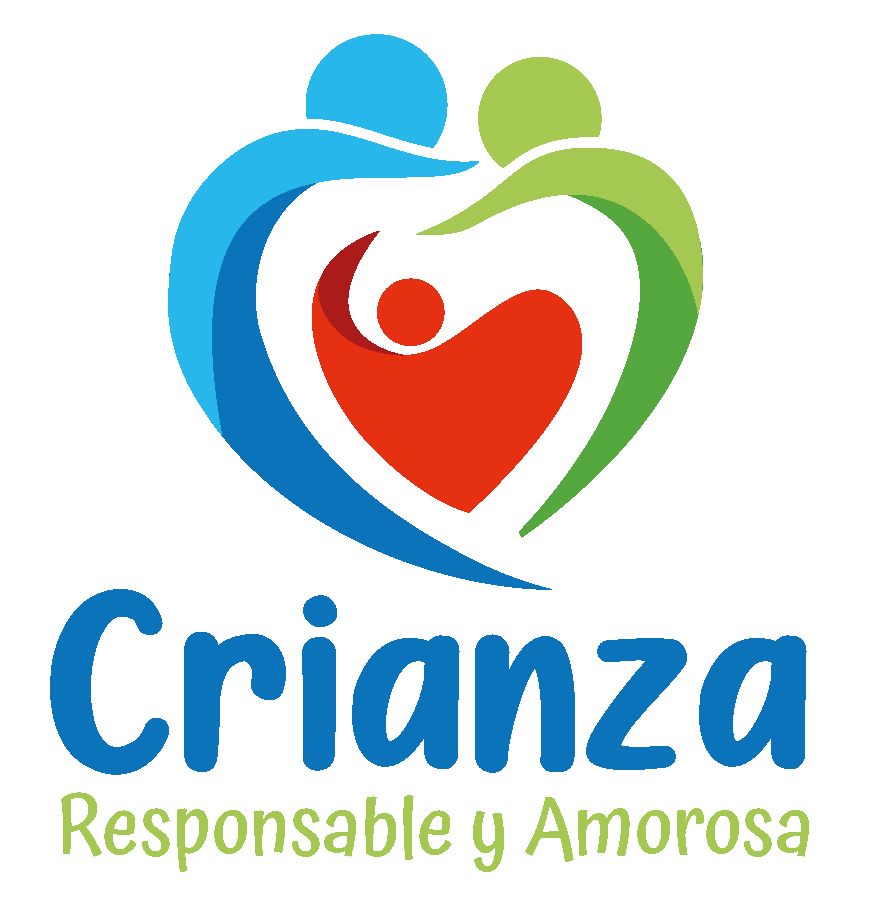
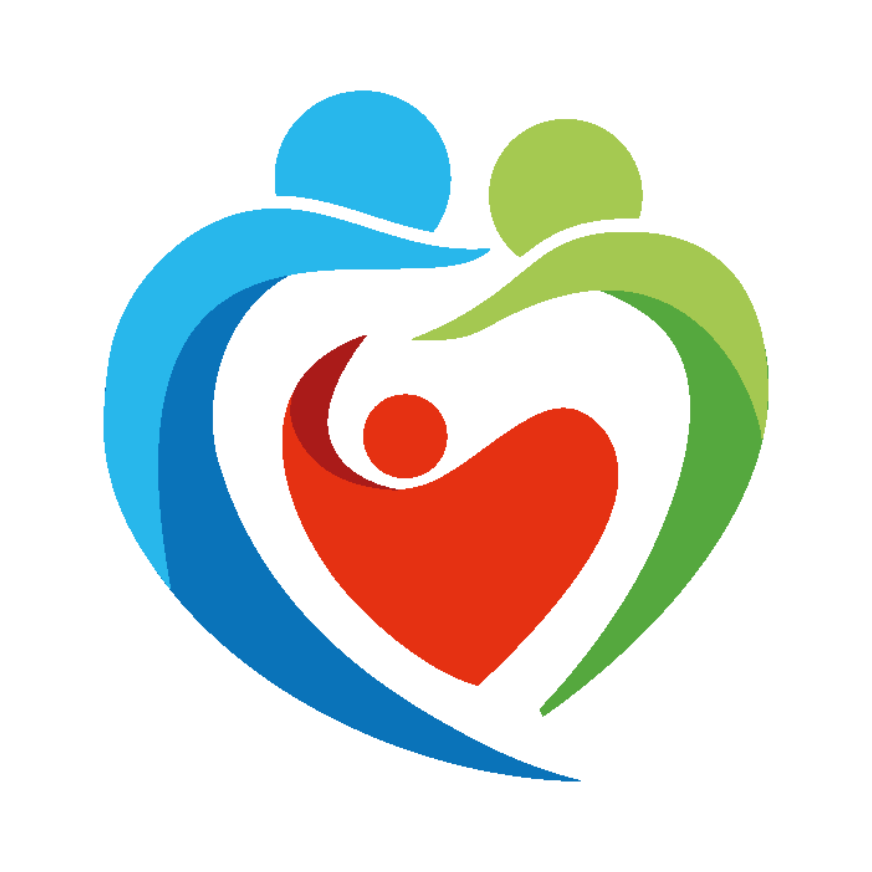
Automated commit message

diff --git a/config.ts b/config.ts
@@ -4,7 +4,7 @@ const config = generateDeploymentConfig("plh_kids_teens_pa");
 
 config.git = {
   content_repo: "https://github.com/ParentingForLifelongHealth/plh-kids-teens-app-pa-content.git",
-  content_tag_latest: "1.1.36",
+  content_tag_latest: "1.1.37",
 };
 
 config.google_drive.sheets_folders = [

diff --git a/reports/summary.md b/reports/summary.md
@@ -88,7 +88,7 @@
 | assets | KB | MB |
 | --- | --- | --- |
 | total | 82173 KB | 82.2 MB |
-| unused | 28697 KB | 28.7 MB |
+| unused | 28741 KB | 28.7 MB |
 </details>
 
 <details open>
@@ -99,8 +99,9 @@ Assets that appear in app-data but do not have references within sheets
 | path | size_kb |
 | --- | --- |
 | android/icon-background.png | 21.4 |
-| android/icon-foreground.png | 17.9 |
+| android/icon-foreground.png | 44 |
 | android/icon.png | 70.3 |
+| android/logo-with-text.png | 17.9 |
 | android/splash.png | 239 |
 | images/activities/personajes_t.svg | 54 |
 | images/backgrounds/homescreen_pattern.svg | 156.3 |